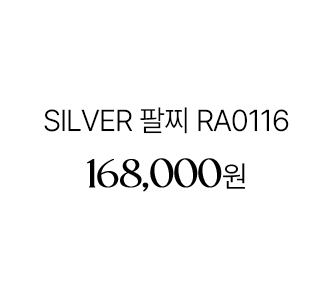
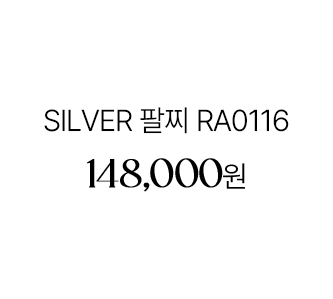
240417

diff --git a/240415a/index-mo-dev.html b/240415a/index-mo-dev.html
@@ -1,0 +1,198 @@
+<link href="https://unpkg.com/aos@2.3.1/dist/aos.css" rel="stylesheet">
+<style>
+  .content {
+    font-size: 0vw;
+    margin-left: auto;
+    margin-right: auto;
+    text-align: center;
+    max-width: 850px;
+    position: relative;
+  }
+  .content img {
+    width: 100%;
+    vertical-align: top;
+  }
+  .content .wrap [data-aos="fade-up"] {
+    transition-duration: 1000ms;
+  }
+  .content .wrap article {
+    width: 100vw;
+  }
+  .content .wrap article.art1 {
+    height: 182vw;
+    background-image: url('https://woorimrsm.cafe24.com/product/special/240417/mo/bg1.png');
+    background-repeat: no-repeat;
+    background-size: contain;
+  }
+  .content .wrap article.art1 .prd-wrap .prd .btn {
+    height: 31.88235294vw;
+  }
+  .content .wrap article.art2 {
+    height: 166.70588235vw;
+    background-image: url('https://woorimrsm.cafe24.com/product/special/240417/mo/bg2.png');
+    background-repeat: no-repeat;
+    background-size: contain;
+  }
+  .content .wrap article.art3 {
+    height: 230.82352941vw;
+    background-image: url('https://woorimrsm.cafe24.com/product/special/240417/mo/bg3.png');
+    background-repeat: no-repeat;
+    background-size: contain;
+  }
+  .content .wrap article.art4 {
+    height: 196.23529412vw;
+    background-image: url('https://woorimrsm.cafe24.com/product/special/240417/mo/bg4.png');
+    background-repeat: no-repeat;
+    background-size: contain;
+  }
+  .content .wrap article.art4 .prd-wrap .prd .btn {
+    width: 39.29411765vw;
+    height: 69.05882353vw;
+  }
+  .content .wrap article.art4 .prd-wrap .prd .btn.btn2 {
+    left: 55.17647059vw;
+  }
+  .content .wrap article .prd-wrap .prd {
+    position: relative;
+  }
+  .content .wrap article .prd-wrap .prd .btn {
+    width: 88.70588235vw;
+    height: 43.88235294vw;
+    position: absolute;
+    left: 5.64705882vw;
+    top: 0vw;
+    right: auto;
+    bottom: auto;
+    display: inline-block;
+    z-index: 1;
+    cursor: pointer;
+  }
+  @media screen and (min-width: 767px) {
+    html {
+      font-size: 28px;
+    }
+    .content {
+      font-size: 0rem;
+      margin-left: auto;
+      margin-right: auto;
+      text-align: center;
+      max-width: 767px;
+      position: relative;
+    }
+    .content img {
+      width: 100%;
+      vertical-align: top;
+    }
+    .content .wrap [data-aos="fade-up"] {
+      transition-duration: 1000ms;
+    }
+    .content .wrap article {
+      width: 27.39328703rem;
+    }
+    .content .wrap article.art1 {
+      height: 49.8557824rem;
+      background-image: url('https://woorimrsm.cafe24.com/product/special/240417/mo/bg1.png');
+      background-repeat: no-repeat;
+      background-size: contain;
+    }
+    .content .wrap article.art1 .prd-wrap .prd .btn {
+      height: 8.73362445rem;
+    }
+    .content .wrap article.art2 {
+      height: 45.66622085rem;
+      background-image: url('https://woorimrsm.cafe24.com/product/special/240417/mo/bg2.png');
+      background-repeat: no-repeat;
+      background-size: contain;
+    }
+    .content .wrap article.art3 {
+      height: 63.23015195rem;
+      background-image: url('https://woorimrsm.cafe24.com/product/special/240417/mo/bg3.png');
+      background-repeat: no-repeat;
+      background-size: contain;
+    }
+    .content .wrap article.art4 {
+      height: 53.75529738rem;
+      background-image: url('https://woorimrsm.cafe24.com/product/special/240417/mo/bg4.png');
+      background-repeat: no-repeat;
+      background-size: contain;
+    }
+    .content .wrap article.art4 .prd-wrap .prd .btn {
+      width: 10.76395043rem;
+      height: 18.91748175rem;
+    }
+    .content .wrap article.art4 .prd-wrap .prd .btn.btn2 {
+      left: 15.11464896rem;
+    }
+    .content .wrap article .prd-wrap .prd {
+      position: relative;
+    }
+    .content .wrap article .prd-wrap .prd .btn {
+      width: 24.29945697rem;
+      height: 12.0208189rem;
+      position: absolute;
+      left: 1.54691503rem;
+      top: 0rem;
+      right: auto;
+      bottom: auto;
+      display: inline-block;
+      z-index: 1;
+      cursor: pointer;
+    }
+  }
+</style>
+<div class="content">
+  <div class="wrap">
+    <div class="top"><img src="https://woorimrsm.cafe24.com/product/special/240417/mo/top.png" alt=""></div>
+    <article class="art1">
+      <div class="art-cnt" data-aos="fade-up"><img src="https://woorimrsm.cafe24.com/product/special/240417/mo/cnt1.png" alt=""></div>
+      <div class="prd-wrap">
+        <div class="prd" data-aos="fade-up">
+          <img src="https://woorimrsm.cafe24.com/product/special/240417/mo/prd1-1.png" alt="">
+          <a href="https://rosemont.co.kr/product/detail.html?product_no=2590" class="btn">RS1145</a>
+        </div>
+        <div class="prd" data-aos="fade-up">
+          <img src="https://woorimrsm.cafe24.com/product/special/240417/mo/prd1-2.png" alt="">
+          <a href="https://rosemont.co.kr/product/detail.html?product_no=2591" class="btn">RS1146</a>
+        </div>
+      </div>
+    </article>
+    <article class="art2">
+      <div class="art-cnt" data-aos="fade-up"><img src="https://woorimrsm.cafe24.com/product/special/240417/mo/cnt2.png" alt=""></div>
+      <div class="prd-wrap">
+        <div class="prd" data-aos="fade-up">
+          <img src="https://woorimrsm.cafe24.com/product/special/240417/mo/prd2.png" alt="">
+          <a href="https://rosemont.co.kr/product/detail.html?product_no=2830" class="btn">RL0209</a>
+        </div>
+      </div>
+    </article>
+    <article class="art3">
+      <div class="art-cnt" data-aos="fade-up"><img src="https://woorimrsm.cafe24.com/product/special/240417/mo/cnt3.png" alt=""></div>
+      <div class="prd-wrap">
+        <div class="prd" data-aos="fade-up">
+          <img src="https://woorimrsm.cafe24.com/product/special/240417/mo/prd3-1.png" alt="">
+          <a href="https://rosemont.co.kr/product/detail.html?product_no=2308" class="btn">RA0116</a>
+        </div>
+        <div class="prd" data-aos="fade-up">
+          <img src="https://woorimrsm.cafe24.com/product/special/240417/mo/prd3-2.png" alt="">
+          <a href="https://rosemont.co.kr/product/detail.html?product_no=2311" class="btn">RA0121</a>
+        </div>
+      </div>
+    </article>
+    <article class="art4">
+      <div class="art-cnt" data-aos="fade-up"><img src="https://woorimrsm.cafe24.com/product/special/240417/mo/cnt4.png" alt=""></div>
+      <div class="prd-wrap">
+        <div class="prd" data-aos="fade-up">
+          <img src="https://woorimrsm.cafe24.com/product/special/240417/mo/prd4.png" alt="">
+          <a href="https://rosemont.co.kr/product/detail.html?product_no=2721" class="btn btn1">RS#68-03MT</a>
+          <a href="https://rosemont.co.kr/product/detail.html?product_no=5082" class="btn btn2">RS#68-04MT</a>
+        </div>
+      </div>
+    </article>
+  </div>
+</div>
+<script src="https://unpkg.com/aos@2.3.1/dist/aos.js"></script>
+<script>
+  AOS.init({
+    once: true,
+  });
+</script>

diff --git a/240415a/index-pc-dev.html b/240415a/index-pc-dev.html
@@ -1,0 +1,180 @@
+<link href="https://unpkg.com/aos@2.3.1/dist/aos.css" rel="stylesheet">
+<style>
+  .content {
+    font-size: 0px;
+    max-width: 1264px;
+    text-align: center;
+    position: relative;
+    margin-left: auto;
+    margin-right: auto;
+  }
+  .content img {
+    width: 100%;
+    vertical-align: top;
+  }
+  .content .btn {
+    display: inline-block;
+    position: relative;
+    z-index: 1;
+    cursor: pointer;
+  }
+  .content .wrap [data-aos="fade-up"] {
+    transition-duration: 1000ms;
+  }
+  .content .wrap article {
+    width: 1264px;
+    position: relative;
+  }
+  .content .wrap article.art1 {
+    height: 966px;
+    background-image: url('https://woorimrsm.cafe24.com/product/special/240417/pc/bg1.png');
+    background-repeat: no-repeat;
+    background-size: contain;
+  }
+  .content .wrap article.art1 .prd-wrap .prd.prd1 {
+    top: 192px;
+  }
+  .content .wrap article.art1 .prd-wrap .prd.prd2 {
+    top: 554px;
+  }
+  .content .wrap article.art2 {
+    height: 954px;
+    background-image: url('https://woorimrsm.cafe24.com/product/special/240417/pc/bg2.png');
+    background-repeat: no-repeat;
+    background-size: contain;
+  }
+  .content .wrap article.art2 .prd-wrap .prd {
+    width: 429px;
+    height: 385px;
+    top: 144px;
+    margin-left: -520px;
+  }
+  .content .wrap article.art3 {
+    height: 1213px;
+    background-image: url('https://woorimrsm.cafe24.com/product/special/240417/pc/bg3.png');
+    background-repeat: no-repeat;
+    background-size: contain;
+  }
+  .content .wrap article.art3 .prd-wrap .prd.prd1 {
+    top: 401px;
+  }
+  .content .wrap article.art3 .prd-wrap .prd.prd2 {
+    top: 763px;
+  }
+  .content .wrap article.art4 {
+    height: 1259px;
+    background-image: url('https://woorimrsm.cafe24.com/product/special/240417/pc/bg4.png');
+    background-repeat: no-repeat;
+    background-size: contain;
+  }
+  .content .wrap article.art4 .prd-wrap .prd {
+    width: 333px;
+    height: 410px;
+    margin-left: -520px;
+  }
+  .content .wrap article.art4 .prd-wrap .prd.prd1 {
+    top: 227px;
+  }
+  .content .wrap article.art4 .prd-wrap .prd.prd2 {
+    top: 700px;
+  }
+  .content .wrap article .prd-wrap .prd {
+    width: 333px;
+    height: 299px;
+    position: absolute;
+    left: 50%;
+    top: 0px;
+    right: auto;
+    bottom: auto;
+    margin-left: 187px;
+    overflow: hidden;
+  }
+  .content .wrap article .prd-wrap .prd .btn {
+    position: absolute;
+    left: 0px;
+    top: 0px;
+    right: auto;
+    bottom: auto;
+    width: 100%;
+    height: 100%;
+    transform: translateY(100%);
+    transition: transform 0.5s;
+    transition-timing-function: ease-out;
+  }
+  .content .wrap article .prd-wrap .prd:hover .btn {
+    transform: translateY(0);
+  }
+</style>
+<div class="content">
+  <div class="wrap">
+    <div class="top"><img src="https://woorimrsm.cafe24.com/product/special/240417/pc/top.png" alt=""></div>
+    <article class="art1">
+      <div class="art-cnt" data-aos="fade-up"><img src="https://woorimrsm.cafe24.com/product/special/240417/pc/cnt1.png" alt=""></div>
+      <div class="prd-wrap">
+        <div class="prd prd1" data-aos="fade-up">
+          <img src="https://woorimrsm.cafe24.com/product/special/240417/pc/prd1-1.png" alt="">
+          <a href="https://rosemont.co.kr/product/detail.html?product_no=2590" class="btn">
+            RS1145 <img src="https://woorimrsm.cafe24.com/product/special/240417/pc/prd1-1-txt.png" alt="">
+          </a>
+        </div>
+        <div class="prd prd2" data-aos="fade-up">
+          <img src="https://woorimrsm.cafe24.com/product/special/240417/pc/prd1-2.png" alt="">
+          <a href="https://rosemont.co.kr/product/detail.html?product_no=2591" class="btn">
+            RS1146 <img src="https://woorimrsm.cafe24.com/product/special/240417/pc/prd1-2-txt.png" alt="">
+          </a>
+        </div>
+      </div>
+    </article>
+    <article class="art2">
+      <div class="art-cnt" data-aos="fade-up"><img src="https://woorimrsm.cafe24.com/product/special/240417/pc/cnt2.png" alt=""></div>
+      <div class="prd-wrap">
+        <div class="prd" data-aos="fade-up">
+          <img src="https://woorimrsm.cafe24.com/product/special/240417/pc/prd2.png" alt="">
+          <a href="https://rosemont.co.kr/product/detail.html?product_no=2830" class="btn">
+            RL0209 <img src="https://woorimrsm.cafe24.com/product/special/240417/pc/prd2-txt.png" alt="">
+          </a>
+        </div>
+      </div>
+    </article>
+    <article class="art3">
+      <div class="art-cnt" data-aos="fade-up"><img src="https://woorimrsm.cafe24.com/product/special/240417/pc/cnt3.png" alt=""></div>
+      <div class="prd-wrap">
+        <div class="prd prd1" data-aos="fade-up">
+          <img src="https://woorimrsm.cafe24.com/product/special/240417/pc/prd3-1.png" alt="">
+          <a href="https://rosemont.co.kr/product/detail.html?product_no=2308" class="btn">
+            RA0116 <img src="https://woorimrsm.cafe24.com/product/special/240417/pc/prd3-1-txt.png" alt="">
+          </a>
+        </div>
+        <div class="prd prd2" data-aos="fade-up">
+          <img src="https://woorimrsm.cafe24.com/product/special/240417/pc/prd3-2.png" alt="">
+          <a href="https://rosemont.co.kr/product/detail.html?product_no=2311" class="btn">
+            RA0121 <img src="https://woorimrsm.cafe24.com/product/special/240417/pc/prd3-2-txt.png" alt="">
+          </a>
+        </div>
+      </div>
+    </article>
+    <article class="art4">
+      <div class="art-cnt" data-aos="fade-up"><img src="https://woorimrsm.cafe24.com/product/special/240417/pc/cnt4.png" alt=""></div>
+      <div class="prd-wrap">
+        <div class="prd prd1" data-aos="fade-up">
+          <img src="https://woorimrsm.cafe24.com/product/special/240417/pc/prd4-1.png" alt="">
+          <a href="https://rosemont.co.kr/product/detail.html?product_no=2721" class="btn btn1">
+            RS#68-03MT <img src="https://woorimrsm.cafe24.com/product/special/240417/pc/prd4-1-txt.png" alt="">
+          </a>
+        </div>
+        <div class="prd prd2" data-aos="fade-up">
+          <img src="https://woorimrsm.cafe24.com/product/special/240417/pc/prd4-2.png" alt="">
+          <a href="https://rosemont.co.kr/product/detail.html?product_no=5082" class="btn btn2">
+            RS#68-04MT <img src="https://woorimrsm.cafe24.com/product/special/240417/pc/prd4-2-txt.png" alt="">
+          </a>
+        </div>
+      </div>
+    </article>
+  </div>
+</div>
+<script src="https://unpkg.com/aos@2.3.1/dist/aos.js"></script>
+<script>
+  AOS.init({
+    once: true,
+  });
+</script>
